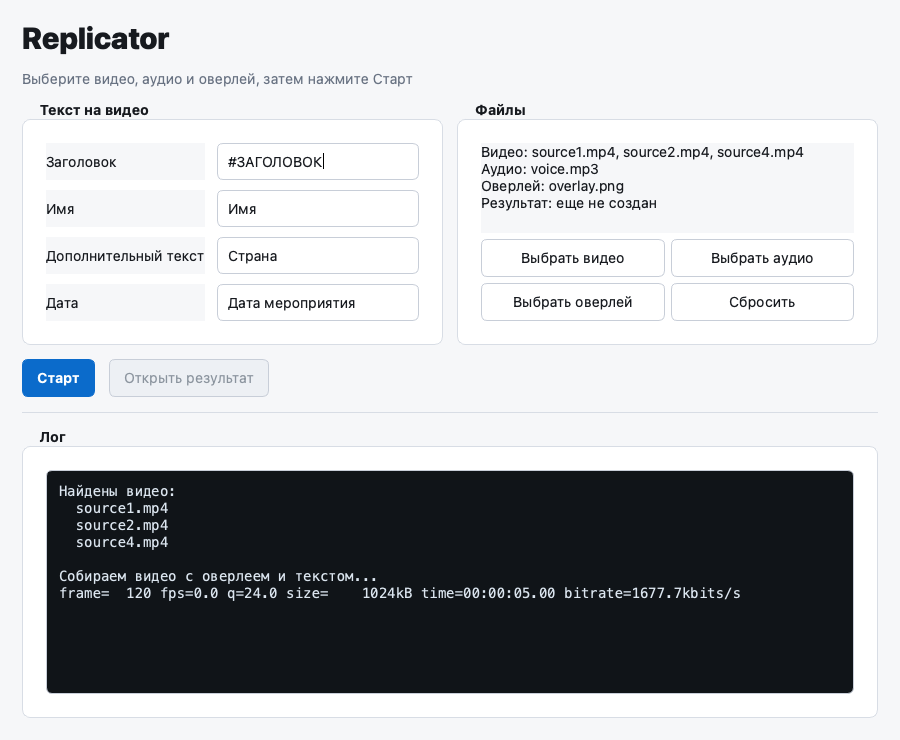
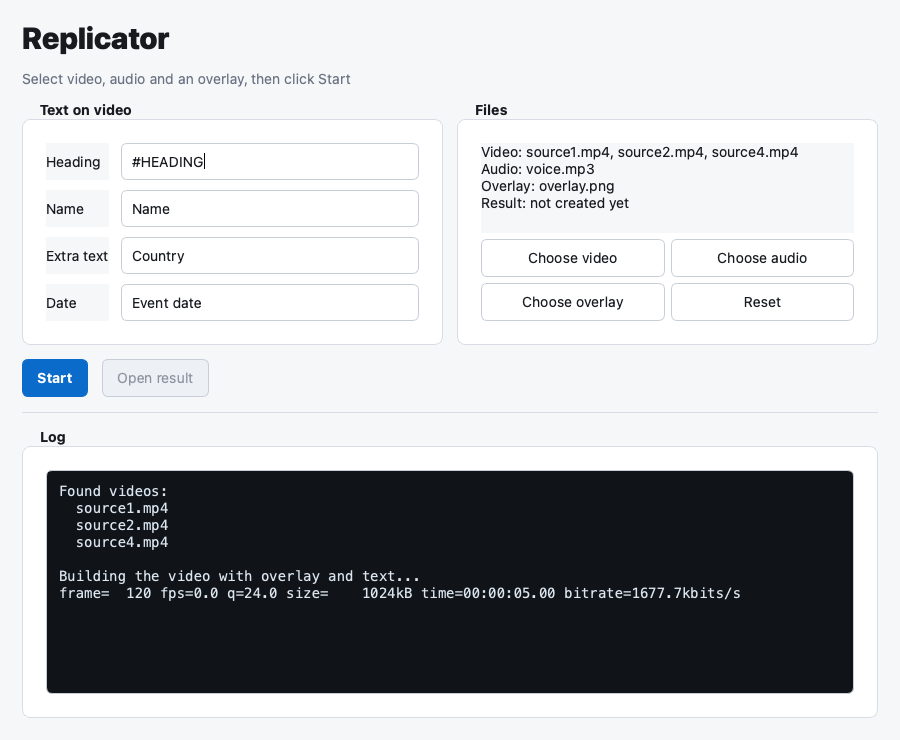
Translate project to English and replace sample overlay
Translate the GUI, CLI, docs, Windows workflows and legacy scripts to English.
Replace the sample overlay.png with a neutral placeholder and regenerate the
GUI screenshot. Ignore generated logs and .DS_Store.

diff --git a/CONTRIBUTING.md b/CONTRIBUTING.md
@@ -44,10 +44,10 @@ CLI:
 
 ```bash
 python3 replicator.py \
-  --heading "#" \
-  --name "" \
-  --extra "" \
-  --date "19.06.2026 ." \
+  --heading "#EVENT" \
+  --name "Jane Doe" \
+  --extra "United Kingdom" \
+  --date "2026-06-19" \
   --audio audio/voice.mp3 \
   --overlay overlay.png \
   --video video/source1.mp4 \
@@ -80,7 +80,7 @@ python3 launcher.py --smoke
   (`Fix Cyrillic drawtext on Windows`).
 - Match the existing code style. Do not reformat unrelated code in the same
   change.
-- Keep user-facing  strings intact.
+- Keep existing user-facing wording consistent across the GUI and CLI.
 - If you can, run the optional quality gates:
 
   ```bash

diff --git a/CHANGELOG.md b/CHANGELOG.md
@@ -20,6 +20,9 @@ and this project adheres to [Semantic Versioning](https://semver.org/spec/v2.0.0
 
 - Rewrote `README.md` with badges, screenshot, project structure, and
   troubleshooting.
+- Translated the entire user interface, CLI output, and documentation to
+  English.
+- Replaced the sample `overlay.png` with a neutral placeholder.
 
 ### Documentation
 
